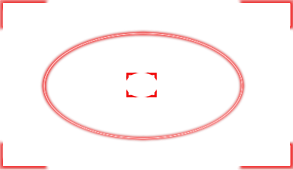
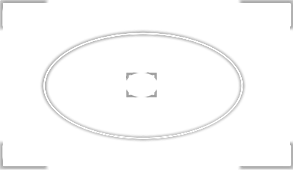
AR reticule can now turn green as intended.

diff --git a/Assets/Scripts/HitBugsource.cs b/Assets/Scripts/HitBugsource.cs
@@ -22,8 +22,4 @@ public class HitBugsource : MonoBehaviour {
 	{
 		gameObject.GetComponent<Renderer>().material.color = Color.red;
 	}
-	// Update is called once per frame
-	void Update () {
-	
-	}
 }
